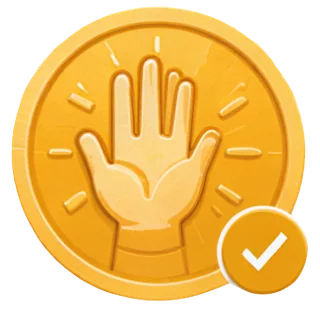
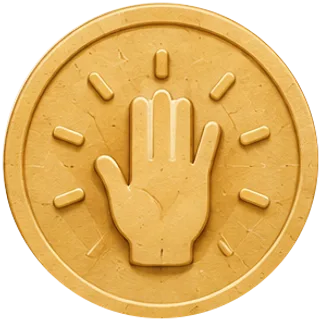
Art: friends and presenting rooms, classroom, headers, firefly stills, all badges
Generated with 12ui on the free daily allowance ($0). Friends and Presenting
get their own island art with stones re-measured on it, class steps show the
classroom, Kit and Badges get their own banners, the companion shows the four
firefly stills, and every badge now has art (first words and hand up no
longer have a baked tick).

diff --git a/src/lib/scenes.ts b/src/lib/scenes.ts
@@ -7,7 +7,7 @@ export type StoneState = "lit" | "current" | "dim";
 export type CropBox = { x: number; y: number; w: number; h: number };
 
 /** "island" fills the frame with just the island (used by PathStones, so stones do not collide on a small phone). "wide" is a gentler crop for screens that want more of the scene (e.g. Home on a laptop); defaults to the full art. */
-export type CropKind = "island" | "wide";
+export type CropKind = "island" | "wide" | "step";
 
 export type Scene = {
   /** Path under public/, e.g. "/art/home-class.webp". */
@@ -23,12 +23,8 @@ export type Scene = {
   stones: { x: number; y: number }[];
   /** Step 6: the destination hotspot (a box, as percentages of the full art), lit when the mission is done. */
   destination: { x: number; y: number; w: number; h: number; label: string };
-  /**
-   * True while this scene's art is a stand-in (Friends and Presenting point at
-   * the map's island art, not dedicated room art) and its stone coordinates
-   * were measured on that stand-in. Re-measure once dedicated art lands.
-   */
-  provisional?: boolean;
+  /** Optional art for the practice step banner (e.g. the classroom); falls back to the island crop of `art`. */
+  step?: { art: string; width: number; height: number; focus: CropBox };
 };
 
 const FULL_ART: CropBox = { x: 0, y: 0, w: 100, h: 100 };
@@ -58,52 +54,52 @@ export const SCENES: Record<RoomId, Scene> = {
       { x: 59.7, y: 21.7 },
     ],
     destination: { x: 60.2, y: 11.8, w: 9, h: 9, label: "the school door" },
+    step: { art: "/art/step-class.webp", width: 1536, height: 1024, focus: { x: 12, y: 2, w: 76, h: 42 } },
   },
-  // Friends: dedicated room art is not generated yet (Task 1 gap). Uses the
-  // map's Friends island cutout, which already has 6 blank stepping stones
-  // baked into the art in a ring around the cottage; the code stones sit on
-  // top of 5 of them (measured with /dev/scenes, going around the ring from
-  // the far side to the one nearest the door), with the door itself as the
-  // destination hotspot.
+  // Friends: a park island (oak, picnic table), the dirt path ends at the
+  // gazebo. Coordinates measured on the real art with a percent grid.
   friends: {
-    art: "/art/island-friends.webp",
-    width: 2400,
-    height: 2664,
-    islandFocus: { x: 12, y: 15, w: 66, h: 55 },
+    art: "/art/room-friends.webp",
+    width: 1536,
+    height: 1024,
+    islandFocus: { x: 38, y: 10, w: 34, h: 42 },
     wideFocus: FULL_ART,
     stones: [
-      { x: 22, y: 41.1 },
-      { x: 22.5, y: 55.8 },
-      { x: 34.4, y: 60.9 },
-      { x: 56.5, y: 60.9 },
-      { x: 68.6, y: 55.8 },
+      { x: 49, y: 43.5 },
+      { x: 54, y: 39.5 },
+      { x: 58, y: 35 },
+      { x: 62, y: 31.5 },
+      { x: 65, y: 26.5 },
     ],
-    destination: { x: 41.4, y: 23, w: 14, h: 10, label: "the friends' door" },
-    provisional: true,
+    destination: { x: 61.5, y: 12, w: 9, h: 13, label: "the gazebo" },
   },
-  // Presenting: same situation as Friends. Uses the map's Presenting island
-  // cutout, which has 6 blank stepping stones around the little stage;
-  // coordinates measured the same way with /dev/scenes.
+  // Presenting: a small open-air stage with benches; the path ends at the
+  // stage steps. Measured the same way.
   presenting: {
-    art: "/art/island-presenting.webp",
-    width: 2400,
-    height: 2690,
-    islandFocus: { x: 17, y: 3, w: 62, h: 54 },
+    art: "/art/room-presenting.webp",
+    width: 1536,
+    height: 1024,
+    islandFocus: { x: 36, y: 9, w: 34, h: 43 },
     wideFocus: FULL_ART,
     stones: [
-      { x: 26.1, y: 28.5 },
-      { x: 27.4, y: 37.8 },
-      { x: 41.5, y: 44.9 },
-      { x: 54.9, y: 44.9 },
-      { x: 69.8, y: 37.8 },
+      { x: 48.3, y: 44.5 },
+      { x: 53, y: 40.2 },
+      { x: 56.2, y: 36 },
+      { x: 54.5, y: 31.2 },
+      { x: 52.9, y: 26 },
     ],
-    destination: { x: 30.5, y: 11, w: 16, h: 10, label: "the stage" },
-    provisional: true,
+    destination: { x: 45.5, y: 11.5, w: 14.5, h: 14.5, label: "the stage" },
   },
 };
 
 export function sceneCrop(scene: Scene, crop: CropKind): CropBox {
+  if (crop === "step") return scene.step?.focus ?? scene.islandFocus;
   return crop === "island" ? scene.islandFocus : scene.wideFocus;
+}
+
+/** The art file for a crop: the step banner has its own art when the scene defines one. */
+export function sceneArt(scene: Scene, crop: CropKind): string {
+  return crop === "step" && scene.step ? scene.step.art : scene.art;
 }
 
 /** Maps a point given as a percentage of the full art into a percentage of the given crop frame. */

diff --git a/src/components/ui/sticker.tsx b/src/components/ui/sticker.tsx
@@ -1,38 +1,17 @@
 import Image from "next/image";
-import {
-  ClockCounterClockwise,
-  Compass,
-  Keyboard,
-  Lifebuoy,
-  PenNib,
-  SunHorizon,
-  type Icon,
-} from "@phosphor-icons/react";
+import { Compass } from "@phosphor-icons/react";
 import { BADGES } from "@/lib/achievements";
 
-/** Badges with real art in public/art/badges/<id>.webp. */
-const ART_IDS = new Set(["first-words", "hand-up", "said-anyway", "back-again", "out-in-the-wild", "calm-captain"]);
-
-/** Neutral die-cut placeholders for badges without art yet, one icon per badge. */
-const PLACEHOLDER_ICONS: Record<string, Icon> = {
-  "typed-first": Keyboard,
-  "rescue-ready": Lifebuoy,
-  "room-explorer": Compass,
-  "my-own-step": PenNib,
-  "then-and-now": ClockCounterClockwise,
-  dawn: SunHorizon,
-};
+/** Every badge has art in public/art/badges/<id>.webp; an unknown id falls back to a neutral icon. */
+const ART_IDS = new Set(BADGES.map((b) => b.id));
 
 const titleOf = (badgeId: string) => BADGES.find((b) => b.id === badgeId)?.title ?? badgeId;
 
 /**
  * A die-cut sticker for one badge. Earned: white 4px outline and a soft
- * shadow, art in colour when it exists, a neutral (not amber) placeholder
- * with a matching Phosphor icon when it does not; amber is reserved for
- * buttons, lit stones, the current nav item and glow. Unearned: a faint
- * stone-dim ring around a desaturated, low-opacity trace of the same badge
- * (the art itself grayscale and dim, or the same placeholder icon in
- * outline style) so the shape is recognisable but clearly not earned yet.
+ * shadow, art in colour (a neutral icon only for an unknown id). Unearned:
+ * a faint stone-dim ring around a grayscale, low-opacity trace of the same
+ * art, so the shape is recognisable but clearly not earned yet.
  */
 export function Sticker({
   badgeId,
@@ -48,7 +27,7 @@ export function Sticker({
 }) {
   const title = titleOf(badgeId);
   const hasArt = ART_IDS.has(badgeId);
-  const PlaceholderIcon = PLACEHOLDER_ICONS[badgeId] ?? Compass;
+  const PlaceholderIcon = Compass;
   const loading = eager ? "eager" : "lazy";
 
   if (!earned) {

diff --git a/src/components/scene/companion.tsx b/src/components/scene/companion.tsx
@@ -4,15 +4,16 @@ import { SPECIES } from "@/lib/companion";
 import type { Species } from "@/lib/types";
 
 /**
- * Firefly stills (public/art/firefly/*.webp) do not exist yet, see
- * design/art-manifest.md. Once they land, fill this map by stage (and, if
- * hedgehog/fox get their own art in Plan 6, add per-species maps of the same
- * shape) — nothing else in this component needs to change.
+ * Firefly stills by stage, on a flat cream ground that fills the round frame.
+ * If hedgehog/fox get their own art in Plan 6, add per-species maps of the
+ * same shape.
  */
-const FIREFLY_STILL: Partial<Record<Stage, string>> = {};
-
-/** Fallback: a portrait crop of the firefly already drawn on the breathing kit tile. */
-const FIREFLY_FALLBACK = "/art/kit/breathing.webp";
+const FIREFLY_STILL: Record<Stage, string> = {
+  hiding: "/art/firefly/hiding.webp",
+  peeking: "/art/firefly/peeking.webp",
+  waving: "/art/firefly/waving.webp",
+  speaking: "/art/firefly/speaking.webp",
+};
 
 const STAGE_WORD: Record<Stage, string> = {
   hiding: "curled up",
@@ -34,7 +35,7 @@ const speciesName = (id: Species) => SPECIES.find((s) => s.id === id)?.name ?? i
  */
 export function Companion({ species, stage, size = 96 }: { species: Species; stage: Stage; size?: number }) {
   const isFirefly = species === "firefly";
-  const src = FIREFLY_STILL[stage] ?? FIREFLY_FALLBACK;
+  const src = FIREFLY_STILL[stage];
   const glow = GLOW_STRENGTH[stage];
 
   return (
@@ -56,7 +57,7 @@ export function Companion({ species, stage, size = 96 }: { species: Species; sta
           alt=""
           fill
           sizes={`${size}px`}
-          className="scale-125 object-cover"
+          className="object-cover"
         />
       </div>
       {!isFirefly && process.env.NODE_ENV !== "production" ? (

diff --git a/src/components/scene/scene-art.tsx b/src/components/scene/scene-art.tsx
@@ -1,5 +1,5 @@
 import Image from "next/image";
-import { sceneCrop, SCENES, type CropKind } from "@/lib/scenes";
+import { sceneArt, sceneCrop, SCENES, type CropKind } from "@/lib/scenes";
 import type { RoomId } from "@/lib/types";
 
 /**
@@ -8,7 +8,8 @@ import type { RoomId } from "@/lib/types";
  * its aspect ratio — see cropAspect in scenes.ts). "island" (the default)
  * zooms onto just the island so it reads at phone width; "wide" is a
  * gentler crop (the full art unless a scene defines otherwise) for screens
- * that want more of the scene around it.
+ * that want more of the scene around it. "step" shows the scene's own
+ * practice-step art (the classroom) when it has one.
  *
  * Implemented with plain percentage math rather than CSS object-view-box
  * (not yet supported everywhere): an inner layer is sized and shifted so
@@ -41,7 +42,7 @@ export function SceneArt({
         }}
       >
         <Image
-          src={scene.art}
+          src={sceneArt(scene, crop)}
           alt=""
           fill
           sizes="(min-width: 768px) 700px, 100vw"

diff --git a/src/components/scene/art-header.tsx b/src/components/scene/art-header.tsx
@@ -2,9 +2,8 @@ import Image from "next/image";
 
 /**
  * A banner of scene art with the page title over the dark night sky side.
- * Kit and Badges header art (header-kit, header-badges) is not made yet
- * (see design/art-manifest.md), so both use the quiet hill from Panic now
- * until it is.
+ * Kit and Badges pass their own banners (header-kit, header-badges); the
+ * quiet hill from Panic now is the default.
  */
 export function ArtHeader({ title, line, art = "/art/panic.webp" }: { title: string; line: string; art?: string }) {
   return (

diff --git a/src/components/views/kit-view.tsx b/src/components/views/kit-view.tsx
@@ -12,7 +12,7 @@ export function KitView() {
   const { age } = useCourage();
   return (
     <div>
-      <ArtHeader title="Body kit" line="Quick tools for when your body feels like too much." />
+      <ArtHeader art="/art/header-kit.webp" title="Body kit" line="Quick tools for when your body feels like too much." />
       <ul role="list" className="relative mx-auto -mt-4 grid max-w-[1100px] list-none gap-3 px-4 md:grid-cols-2 md:gap-5">
         {KIT_TOOLS.map((t, i) => (
           <li key={t.id}>

diff --git a/src/components/views/step-view.tsx b/src/components/views/step-view.tsx
@@ -292,7 +292,7 @@ export function StepView({ id, levelParam }: { id: string; levelParam?: string |
       </p>
 
       <div className="relative mx-auto mt-5 h-[24dvh] min-h-[150px] max-w-[720px] overflow-hidden rounded-card md:h-[260px]">
-        <SceneArt room={step.room} priority className="object-top" />
+        <SceneArt room={step.room} crop="step" priority className="object-top" />
       </div>
 
       <PaperCard className="relative mx-auto -mt-8 max-w-[640px]">

diff --git a/src/components/views/badges-view.tsx b/src/components/views/badges-view.tsx
@@ -27,7 +27,7 @@ export function BadgesView() {
 
   return (
     <div>
-      <ArtHeader title="Badges" line="Small steps. Real courage." />
+      <ArtHeader art="/art/header-badges.webp" title="Badges" line="Small steps. Real courage." />
 
       <div className="relative mx-auto -mt-4 max-w-[1100px] px-4">
         <PaperCard className="!p-5 sm:!p-6">

diff --git a/design/art-manifest.md b/design/art-manifest.md
@@ -1,6 +1,39 @@
 # Art manifest — Plan 3, Task 1 (Paper Lantern Map scene art)
 
-Status: **DONE_WITH_CONCERNS**. 12ui hosted generation is still blocked on a prepaid
+Status: **DONE** (2026-09-28 batch below fills every gap the app uses). The
+history below is kept for provenance; the older status text follows.
+
+## 2026-09-28 batch (12ui free allowance, $0 charged)
+
+Seven `12ui draft` runs, 15 candidates in total, all on the daily free allowance
+(`12ui spend` shows $0.00). Every candidate was inspected at full size against the
+hard checks (no text, numbers, UI or stones baked in; plain empty dirt path; no
+firefly or creatures in scene art; calm lower third). Run dirs are temp
+(`/var/folders/.../T/12ui-*`) and not kept.
+
+| File | Run concept / reference | Pick | Why | Notes |
+|---|---|---|---|---|
+| `room-friends.webp` | Park island (oak, picnic table, gazebo), ref `home-class` | A | Longer, clearer path from island edge to gazebo | 1536x1024, 192 KB. Stones measured with a percent grid |
+| `room-presenting.webp` | Open-air stage with benches, ref `home-class` | A | Path ends cleanly at the stage steps; bigger island | 1536x1024, 199 KB |
+| `step-class.webp` | Outdoor classroom, animal classmates, blank chalkboard, ref `step.jpg` | A | Blank board, leftmost desk left empty, calm lower half | 1536x1024, 165 KB. Used by the step banner (`crop="step"`) |
+| `header-kit.webp` | Wide banner, lantern on a mossy boulder, ref `kit.jpg` | A | Open night sky on the left for the title | Cropped to a 1536x600 strip with the lantern about 42% down |
+| `header-badges.webp` | Wide banner, backpack and lantern on a cliff, ref `badges.jpg` | A | Same reason | 1536x600 strip |
+| `firefly/{hiding,peeking,waving,speaking}.webp` | 2x2 character sheet on flat `#F4E6CF`, ref `kit/breathing` | B (of 3) | Clearest progression; speaking pose distinct | Cropped per quadrant to 384px squares. Kept on the flat cream ground (the pale wings are too close to it to key out cleanly); the Companion frame is round, like the kit tiles |
+| `badges/{first-words,hand-up}.webp` | 4x2 coin sheet, ref `said-anyway` | A | More detail, matches the existing coins | Replace the old art that had a baked tick |
+| `badges/{typed-first,rescue-ready,room-explorer,my-own-step,then-and-now,dawn}.webp` | Same sheet | A | | Circular mask, transparent corners, 320px |
+
+Code: `SCENES.friends` / `presenting` now use the room art (the `provisional`
+flag is gone), `SCENES.class.step` points at the classroom, Companion uses the
+stills, every badge has art, Kit and Badges pass their headers to `ArtHeader`.
+
+Still open (not used by any screen as a gap): `map.webp` single composite (the
+map uses the layered `sky-map` + `island-*` set), and the map island cutouts
+still have 6 blank ring stones baked in (map cards only, no numbers drawn on
+them). Hedgehog and fox art wait for Plan 6.
+
+## Earlier status (2026-09-27)
+
+Status then: **DONE_WITH_CONCERNS**. 12ui hosted generation is still blocked on a prepaid
 wallet balance (free allowance resets 2026-09-28T00:00Z; do not retry generation or
 top up before then). Coverage was extended in the meantime by harvesting unused
 layers already extracted from earlier 12ui page conversions in the scratchpad
